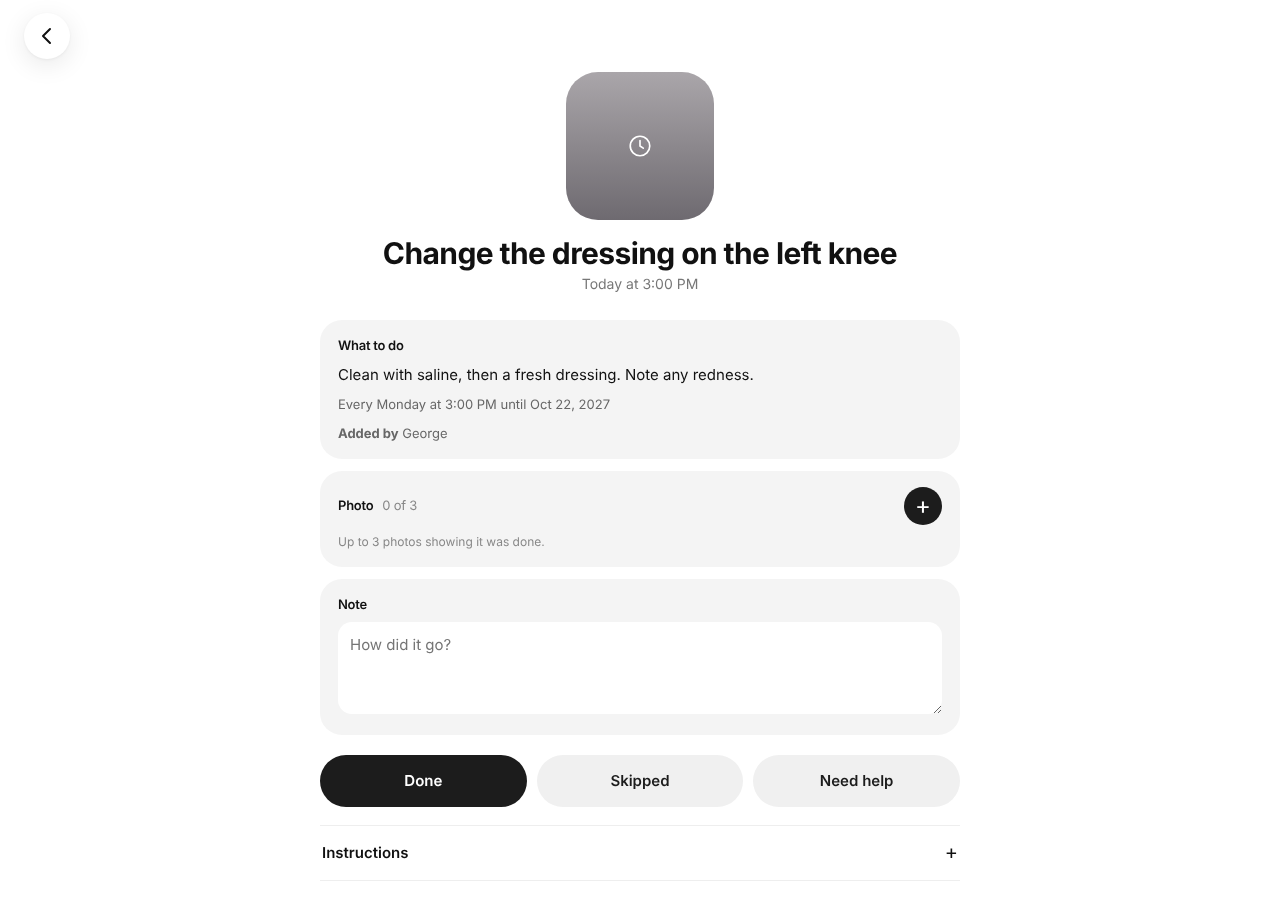
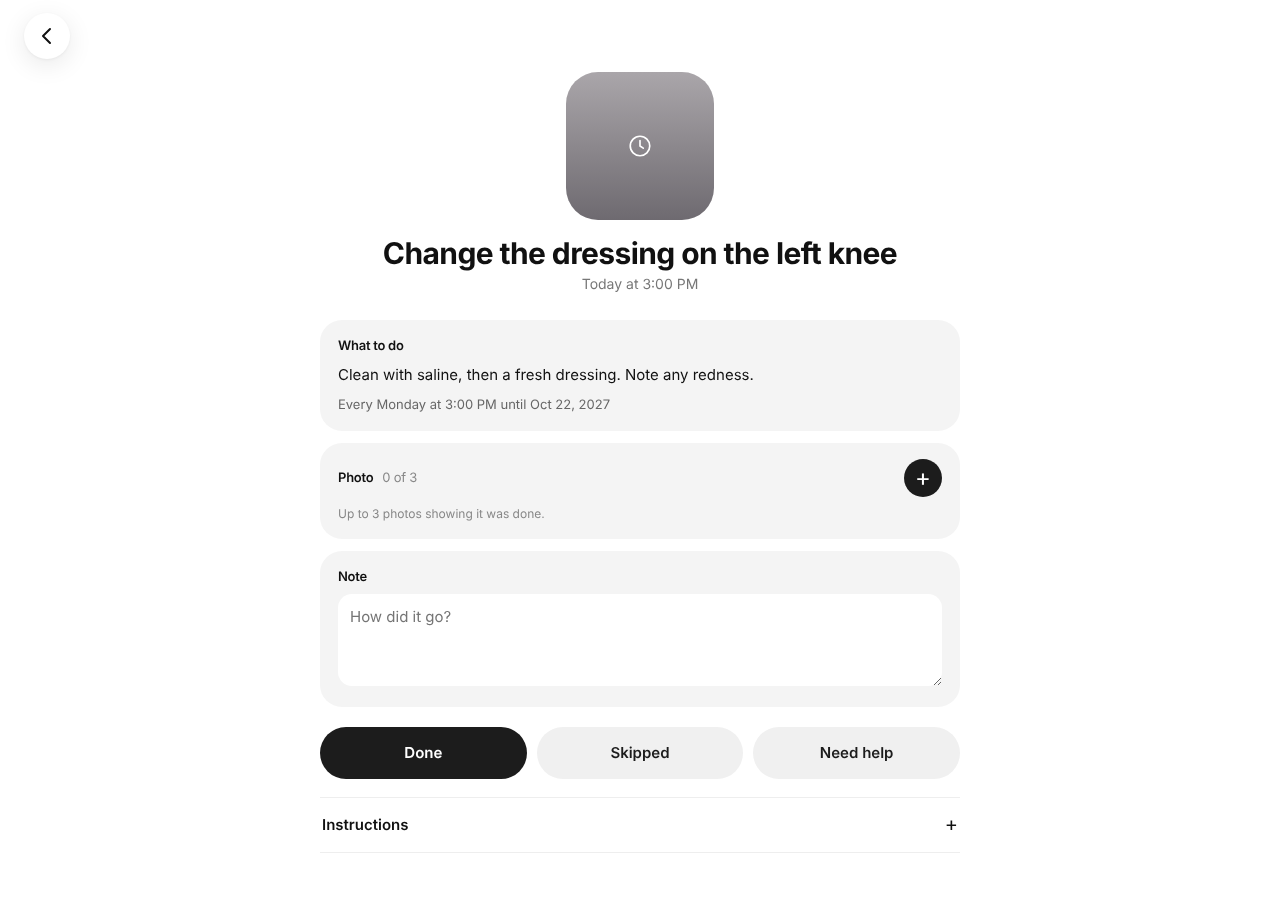
Step 5: no "Added by" or "Reported by" in the report
George: the report already holds everything documented, so it doesn't
need to say who added a task or reported an incident. The Take page for
a task drops "Added by" too.

Claude-Session: https://claude.ai/code/session_01E2FP2TgKsd54SUu6FZRJ73

diff --git a/plus.js b/plus.js
@@ -4,7 +4,7 @@
    A new task: what to do, an optional note and photo, the date and exact time, once or repeating (every day, chosen days or
    every week), from today up to one year ahead. It shows in My Tasks on its days at its time and is done on the Take page with
    the same Done or Skip, note and photos. An incident: what happened, when, a note, photos, the witnesses and who was told, with Call 911 on
-   the form. Both show in the daily care report, numbered and time-stamped, with who added them. Uses the Take card's blocks. */
+   the form. Both show in the daily care report, numbered and time-stamped. Uses the Take card's blocks. */
 const PLUS_PHOTOS=3,YEAR_AHEAD=365;
 const TASK_DAYS=['Sun','Mon','Tue','Wed','Thu','Fri','Sat'];
 const REPEATS=[['once','Once'],['daily','Every day'],['days','Chosen days'],['weekly','Every week']];
@@ -40,18 +40,18 @@ const taskPhoto=(i,mark)=>{const src=(mark&&mark.photos||[])[0]||(i.photos||[])[
 /* The Take page for a task: its photo, what to do with its note and photos, then the same photo, note and Done, Skipped, Need help. */
 function taskTakePage(x,d,full){const i=x.item;
 const top=`<div class="take-hero">${taskPhoto(i)}<h1>${esc(i.name)}</h1><p>${esc('Today'+(x.time?' at '+clockText(x.time):''))}</p></div>`;
-const how=`<section class="take-block"><h2>What to do</h2><p>${esc(i.note||i.name)}</p>${proofRow(i.photos||[],false)}<p class="take-sub">${esc(repeatText(i))}</p>${i.by?`<p class="take-sub"><b>Added by</b> ${esc(i.by)}</p>`:''}</section>`;
+const how=`<section class="take-block"><h2>What to do</h2><p>${esc(i.note||i.name)}</p>${proofRow(i.photos||[],false)}<p class="take-sub">${esc(repeatText(i))}</p></section>`;
 const details=`<details class="take-more" id="take-help"${takeDraft.help?' open':''}><summary>Instructions</summary>${helpNote(i)}</details>`;
 return `<section class="sub-page take-page"><div class="sub-top"><button class="sub-back" data-menu-go="overview" aria-label="Back">${menuIcon(menuIcons.back)}</button></div>${top}${how}${takeBody(d,full,true)}${details}</section>`}
 
 /* In the daily care report: a task on the day it was added and each day it was done or skipped, and an incident at the time
-   it happened, each with who added it. */
+   it happened. Like the other entries, it doesn't say who added it. */
 const reportEntriesBeforePlus=reportEntries;
 reportEntries=function(list=items,day=today(),vitalsLog){const out=reportEntriesBeforePlus(list,day,vitalsLog);
-for(const t of list.filter(i=>i.task)){const by=t.by?['Added by '+t.by]:[];
-if(onDay(t.addedAt,day))out.push({title:'New task: '+t.name,at:t.addedAt,note:t.note||'',details:[repeatText(t),...by],name:t.name,photos:t.photos||[]});
-for(const m of (t.marks||[]).filter(m=>m.key==='task'&&m.day===day&&m.at))out.push({title:`${t.name} (${t.time?shortClock(t.time)+' task':'task'})${m.kind==='skipped'?' skipped':''}`,at:m.at,note:m.note||'',details:by,name:t.name,photos:m.photos||[]})}
-for(const i of list.filter(i=>i.incident&&onDay(i.at,day)))out.push({title:'Incident: '+i.name,at:i.at,note:i.note||'',details:[i.witnesses?'Witnesses: '+i.witnesses:'',i.told?'Told: '+i.told:'',i.by?'Reported by '+i.by:''].filter(Boolean),name:'Incident: '+i.name,photos:i.photos||[]});
+for(const t of list.filter(i=>i.task)){
+if(onDay(t.addedAt,day))out.push({title:'New task: '+t.name,at:t.addedAt,note:t.note||'',details:[repeatText(t)],name:t.name,photos:t.photos||[]});
+for(const m of (t.marks||[]).filter(m=>m.key==='task'&&m.day===day&&m.at))out.push({title:`${t.name} (${t.time?shortClock(t.time)+' task':'task'})${m.kind==='skipped'?' skipped':''}`,at:m.at,note:m.note||'',details:[],name:t.name,photos:m.photos||[]})}
+for(const i of list.filter(i=>i.incident&&onDay(i.at,day)))out.push({title:'Incident: '+i.name,at:i.at,note:i.note||'',details:[i.witnesses?'Witnesses: '+i.witnesses:'',i.told?'Told: '+i.told:''].filter(Boolean),name:'Incident: '+i.name,photos:i.photos||[]});
 return out.sort((x,y)=>new Date(x.at)-new Date(y.at))};
 
 /* The + itself: the Take card's round +. Someone who may do both picks one first; otherwise it opens the one they may do. */

diff --git a/docs/care-team-plan.md b/docs/care-team-plan.md
@@ -99,7 +99,7 @@ Admins can change anyone's role at any time (Settings → People → tap their n
 - A round + at the top right of My Tasks, with the "My Tasks" title staying top left, only for people allowed to add tasks or report incidents (moved from the far left at George's request on 2026-10-22).
 - **New task:** what to do, an optional note and photo, the date and exact time, once or repeating (daily, chosen days, weekly), from today up to one year ahead. It shows in My Tasks at its time and is done with the existing Done or Skip buttons, with notes and photos as now.
 - **Report an incident:** what happened (fall, refused medication, injury, behaviour, other), when, a note, photos, witnesses (their names, separated by commas), and who was told. Call 911 sits on the form.
-- Both show in the daily care report, numbered and time-stamped, with who added them.
+- Both show in the daily care report, numbered and time-stamped. Like the other entries, they don't say who added them (George, 2026-10-22).
 **Done when:** an admin schedules a task for next Monday at 3:00 PM and it appears in the caregiver's My Tasks then; an incident shows in the report straight away; a caregiver on two families sees each family's tasks only under that family.
 
 ---
